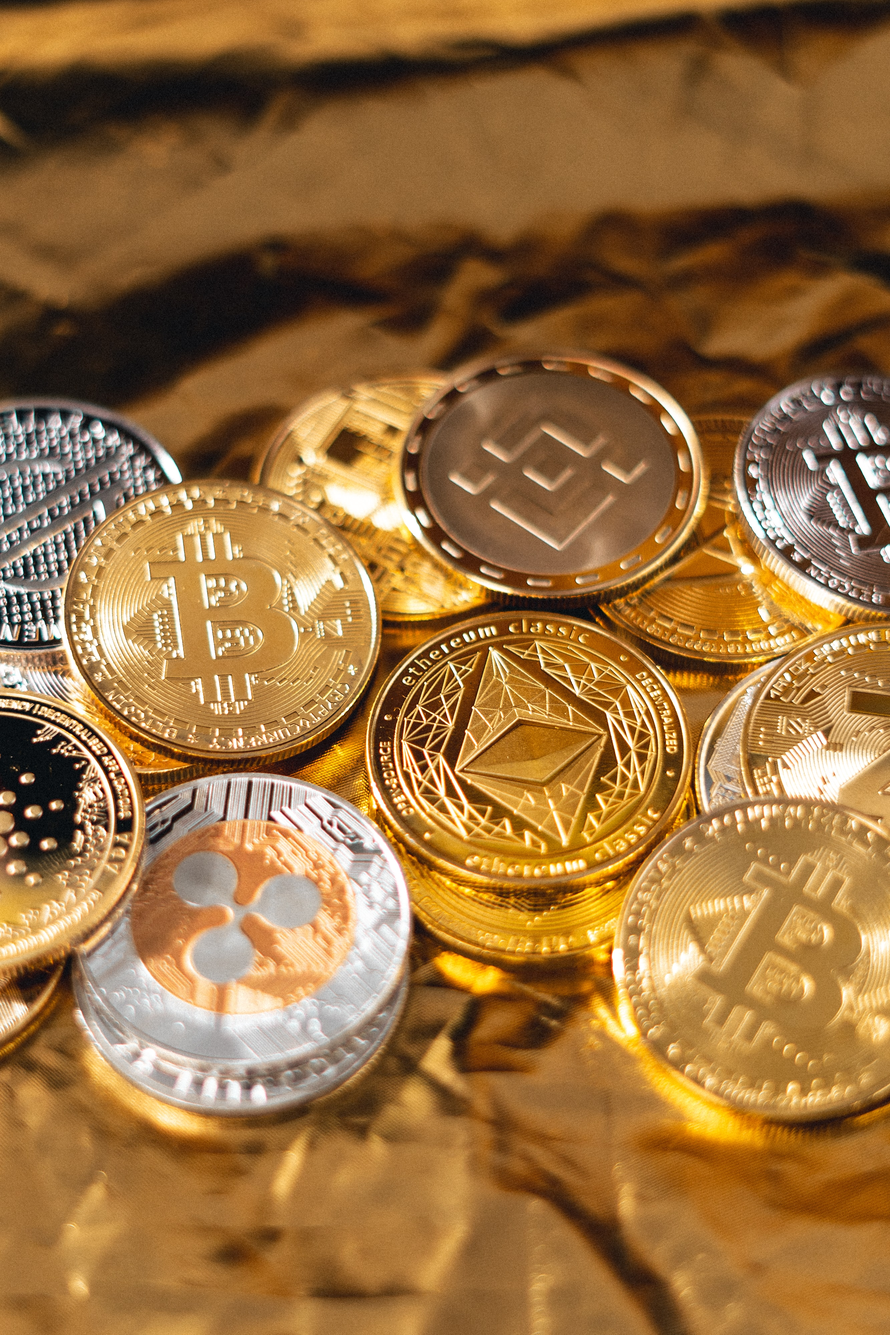
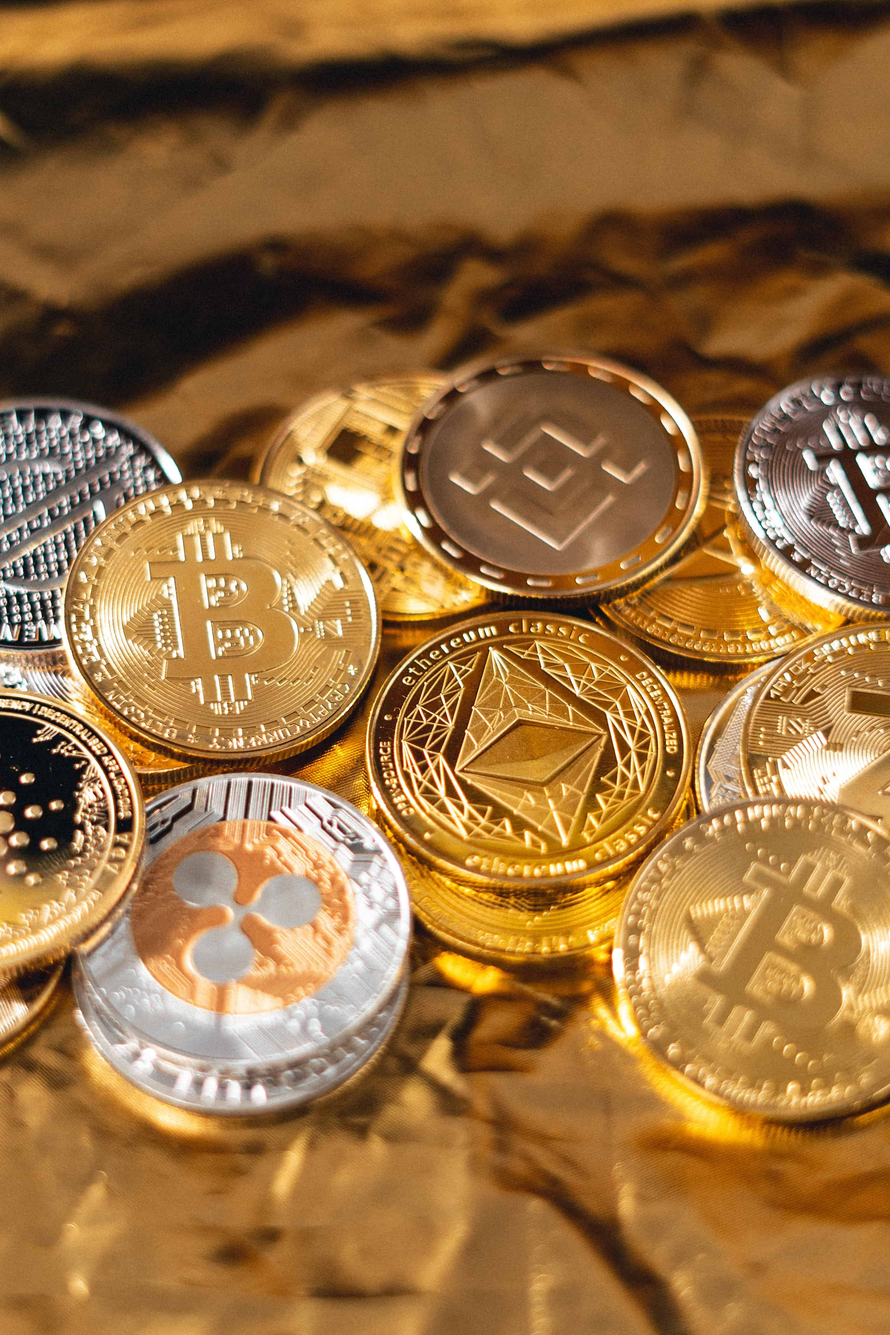
resize image assets

Changed region(s): [[0.4357, 0.5312, 0.4668, 0.5625]]

diff --git a/pages/blog.js b/pages/blog.js
@@ -11,6 +11,8 @@ import Footer from "../components/Layout/Footer";
 function Blog({ sanityConfig }) {
   const [mappedPosts, setMappedPosts] = useState([]);
   const [popularPosts, setPopularPosts] = useState([]);
+  const [filteredPosts, setFilteredPosts] = useState([]);
+  const [originalPosts, setOriginalPosts] = useState([]);
   const [recent, setRecent] = useState([]);
   const [categories, setCategories] = useState([]);
   const [tags, setTags] = useState([]);
@@ -97,23 +99,39 @@ function Blog({ sanityConfig }) {
                 };
               })
             );
+
+            setOriginalPosts(
+              blogPosts.posts.map((p) => {
+                const publishedAtObj = new Date(p.publishedAt);
+                const momentObj = moment(publishedAtObj);
+
+                return {
+                  ...p,
+                  mainImage: imgBuilder
+                    .image(p.mainImage)
+                    .width(500)
+                    .height(250),
+                  date: momentObj.format("MMMM Do YYYY, h:mm:ss a"),
+                };
+              })
+            );
           } else {
             setMappedPosts([]);
           }
         }
       });
   }, [sanityConfig]);
-  const filterByValue = (tag) => {
+  const filterByValue = async (tag) => {
+    await setMappedPosts();
+    console.log(originalPosts);
     const filteredPosts = mappedPosts.filter((post) => {
-      for (let i = 0; i < post.tags.length; i++) {
-        return post.tags[i] == tag;
+      if (post.tags.includes(tag)) {
+        return post.tags.includes(tag);
       }
     });
 
     setMappedPosts(filteredPosts);
   };
-
-  console.log(mappedPosts);
 
   return (
     <>

diff --git a/components/Blog/BlogSideBar.js b/components/Blog/BlogSideBar.js
@@ -185,7 +185,11 @@ function BlogSideBar({
                   <a
                     style={{ cursor: "pointer" }}
                     key={index}
-                    onClick={() => filterByValue(tag.tag)}
+                    onClick={() =>
+                      tag.totalReferences > 0
+                        ? filterByValue(tag.tag)
+                        : console.log("no posts")
+                    }
                   >
                     {tag.tag}{" "}
                     <span className="tag-link-count">
